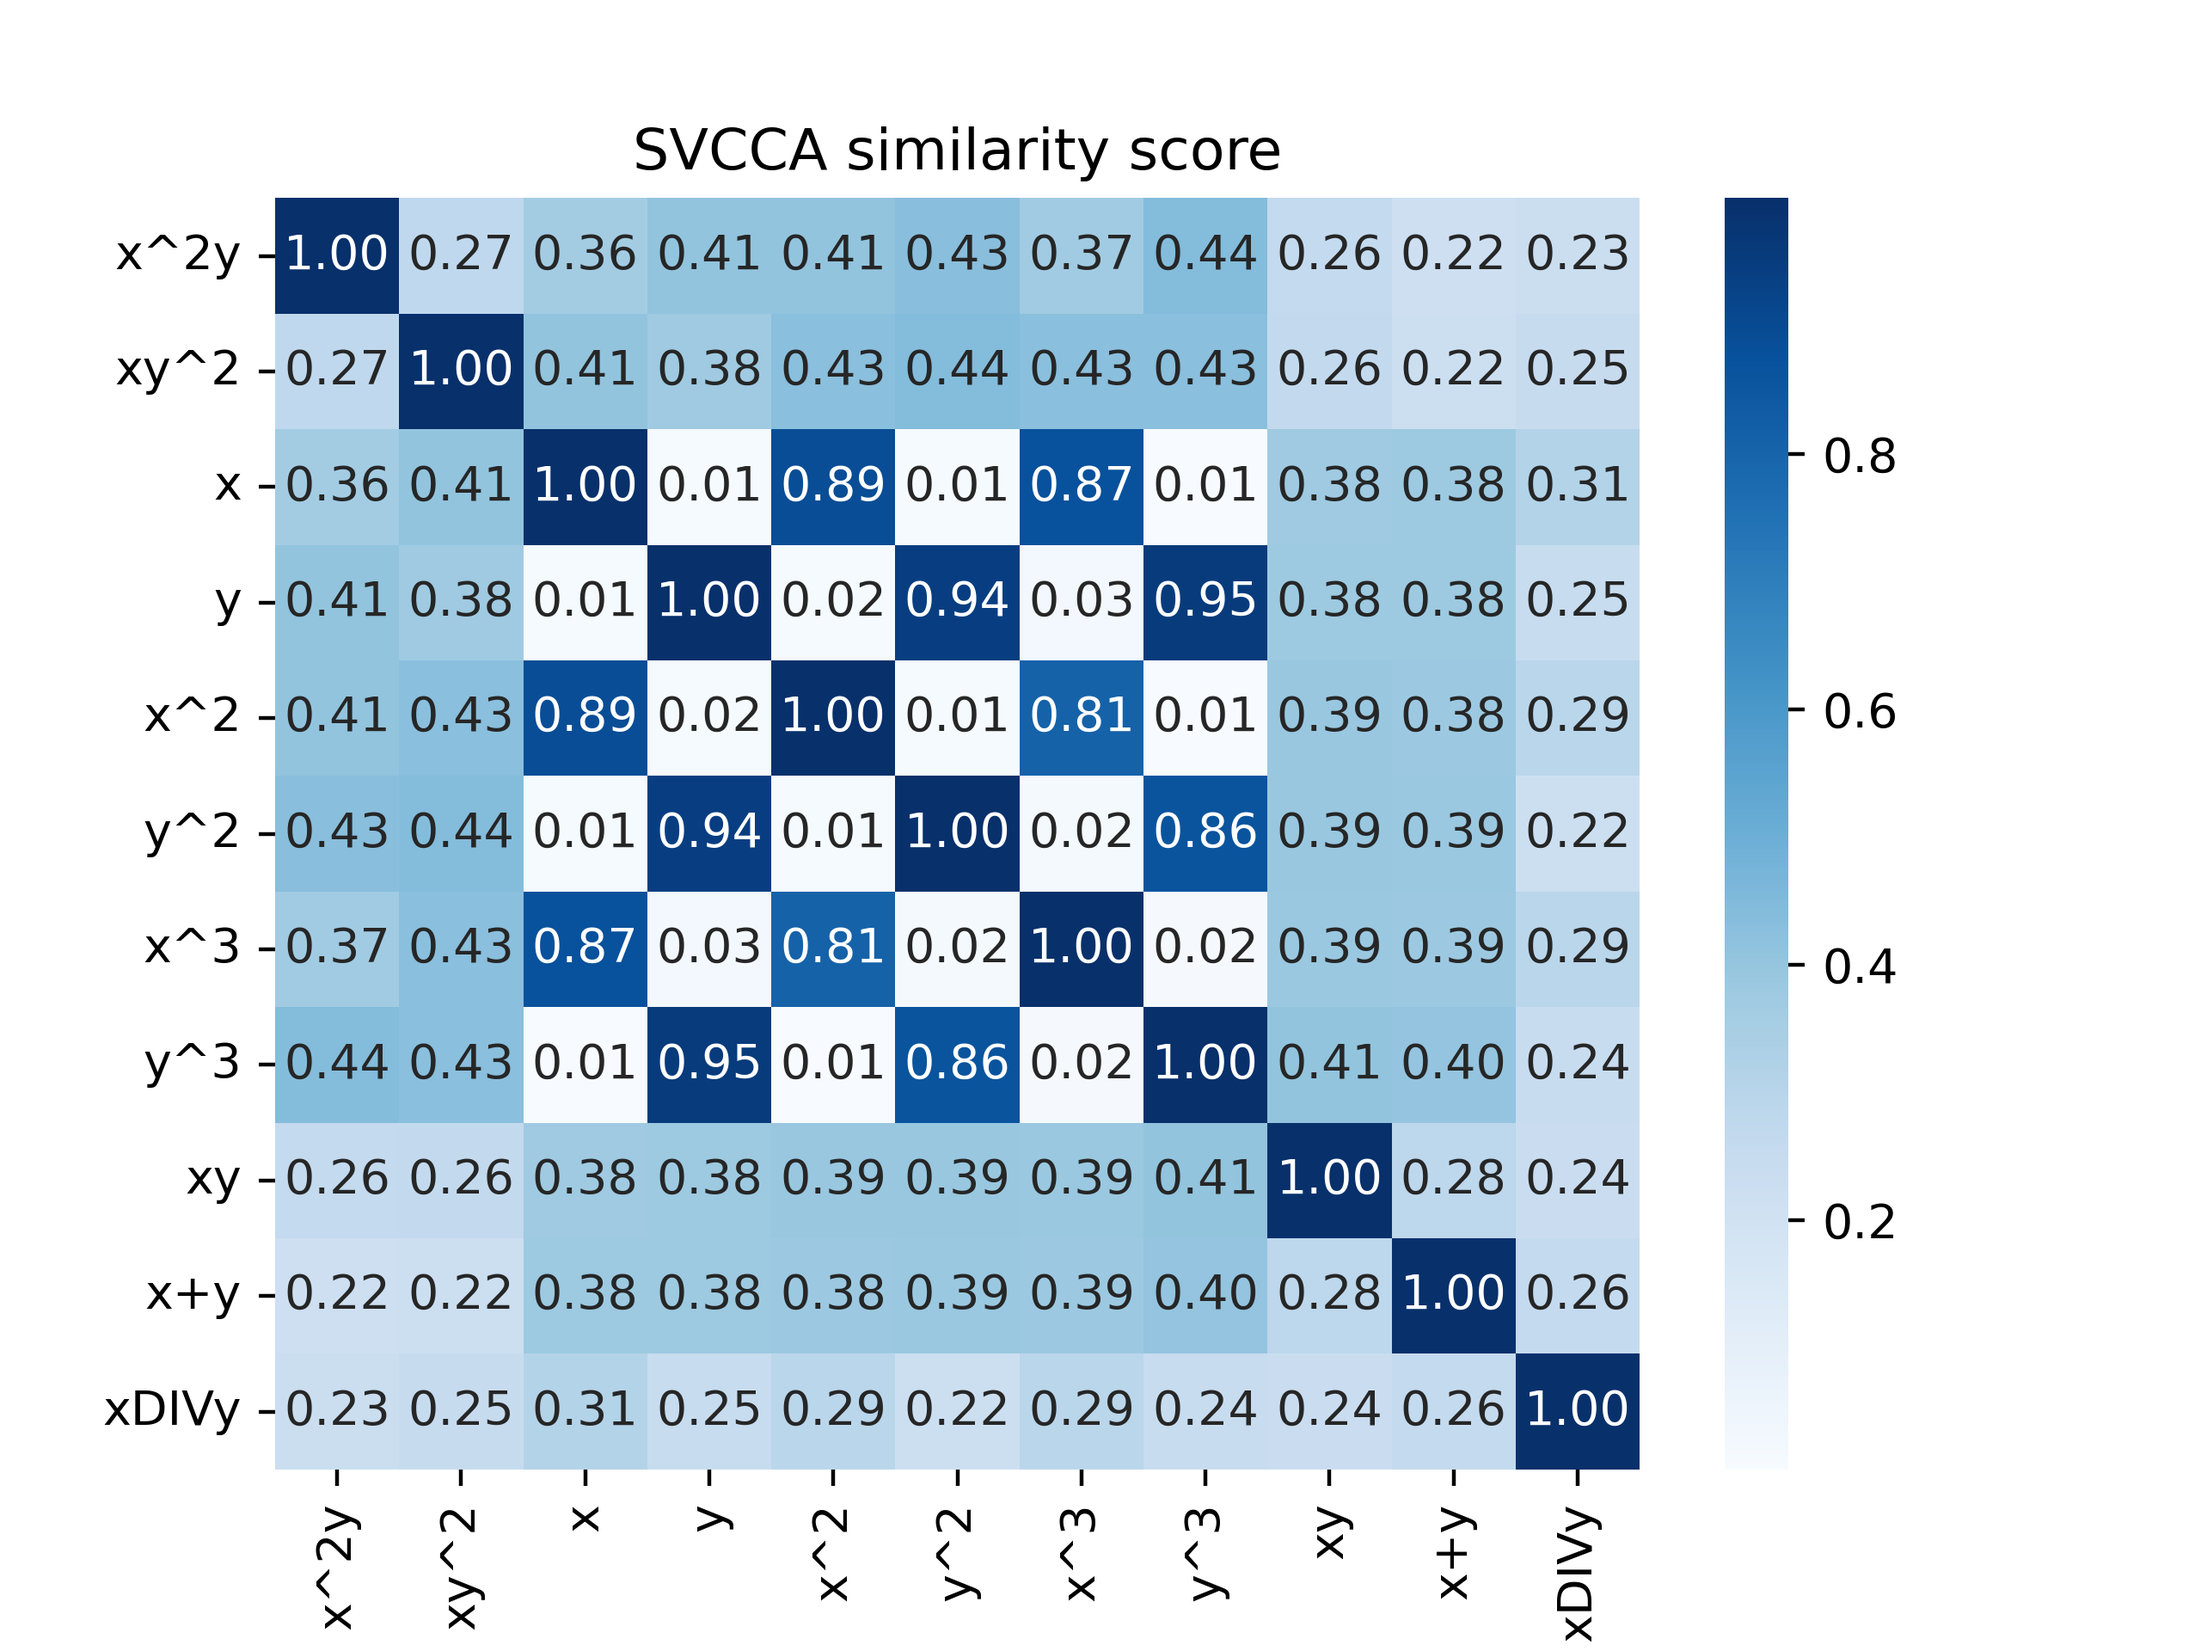
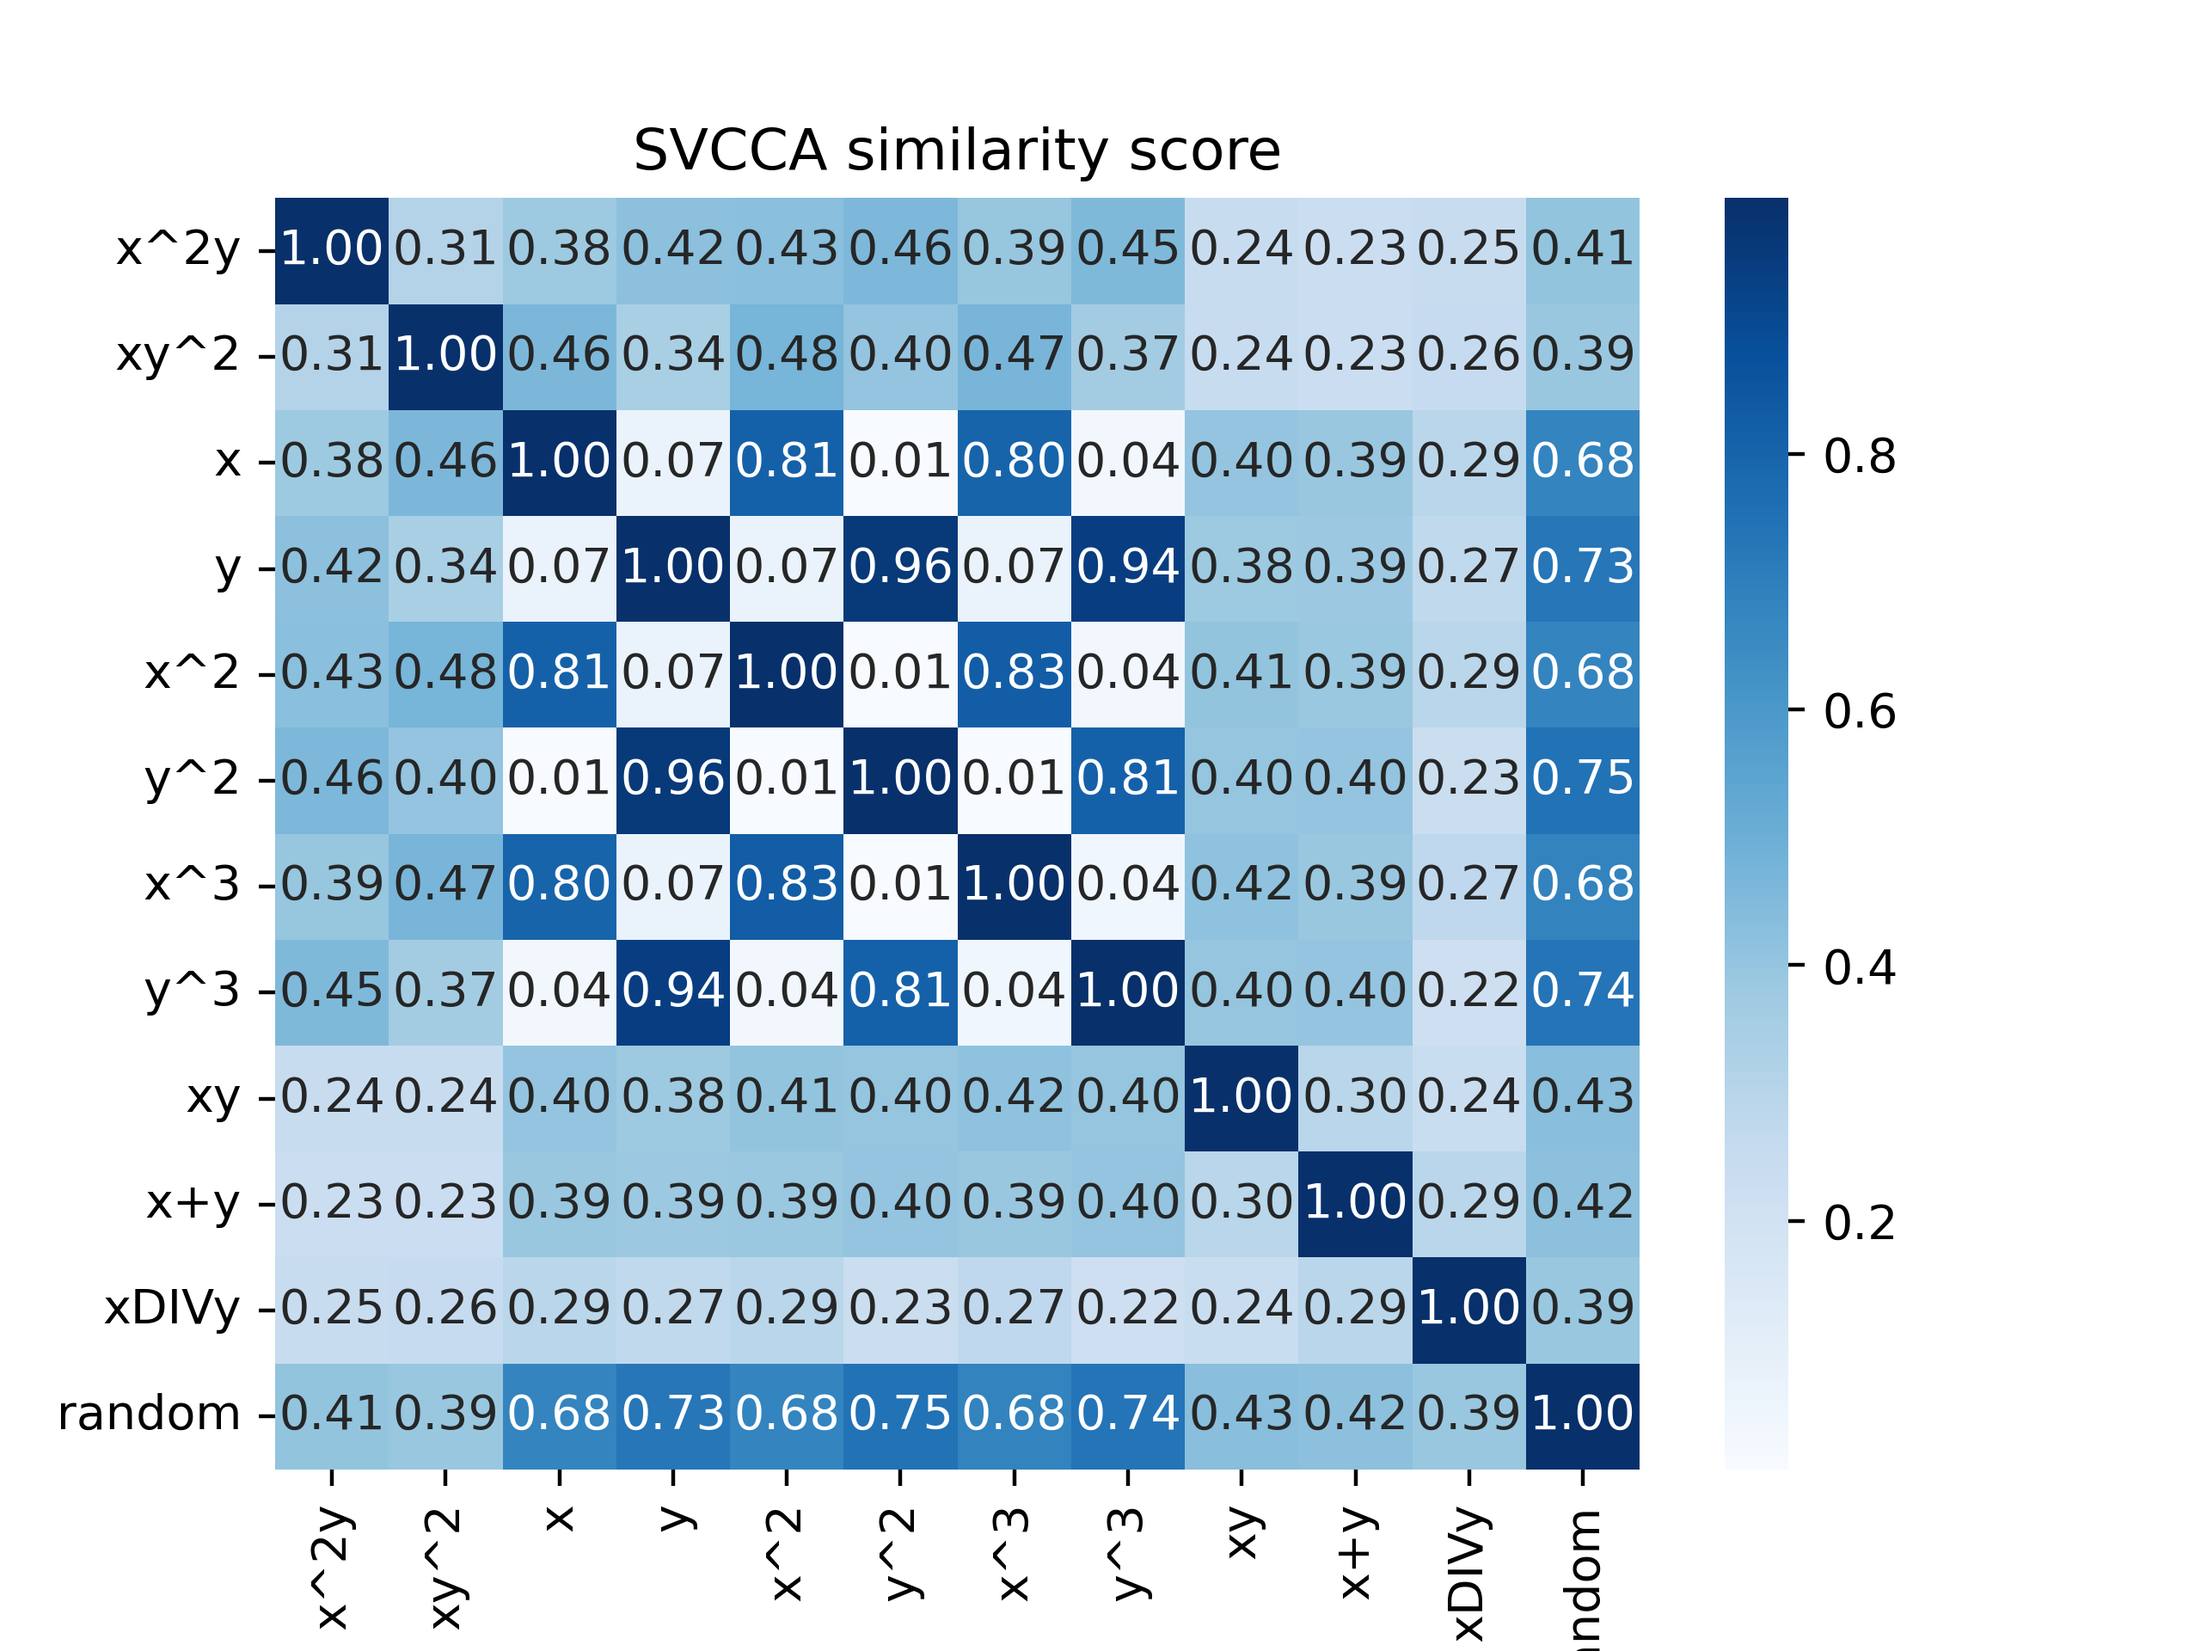
similarity

Changed region(s): [[0.0312, 0.0938, 0.75, 1.0]]

diff --git a/train.py b/train.py
@@ -4,6 +4,9 @@ from itertools import permutations
 
 import operations
 
+from svcca.cca_core import get_cca_similarity
+from similarity import svd_reduction
+
 from sklearn import linear_model
 from sklearn.metrics import r2_score
 
@@ -43,7 +46,6 @@ def main(args):
     for key, value in ops.items():
         score[key]=[]
         representations[key]=torch.load(f'representations/{key}/final.pt')
-
     if not os.path.exists(f'weights/{args.operation}'):
         os.makedirs(f'weights/{args.operation}')
     if not os.path.exists(f'figures/{args.operation}'):
@@ -132,6 +134,7 @@ def main(args):
                 #print("Test ", total_acc)
                 val_acc.append(total_acc / valid_data.shape[-1])
                 val_loss.append(total_loss / valid_data.shape[-1])
+
                 with torch.no_grad():
                     for key, value in ops.items():
                         lm = linear_model.LinearRegression()
@@ -139,8 +142,10 @@ def main(args):
                         y=model.extract_representation(alldata.to(device)[:-1])[-1].cpu().numpy()
                         x=svd_reduction(x).T
                         y=svd_reduction(y).T
-                        lm.fit(x, y)
-                        score[key].append(r2_score(lm.predict(x), y, multioutput='variance_weighted'))
+                        svcca_results = get_cca_similarity(x, y, epsilon=1e-10, verbose=False)
+                        score[key].append(svcca_results['cca_coef1'].mean())
+                        #lm.fit(x, y)
+                        #score[key].append(r2_score(lm.predict(x), y, multioutput='variance_weighted'))
 
         if (e + 1) % 100 == 0:
             steps = torch.arange(len(train_acc)).numpy() * steps_per_epoch
@@ -151,7 +156,7 @@ def main(args):
             plt.xlabel("Optimization Steps")
             plt.ylabel("Accuracy")
             plt.xscale("log", base=10)
-            plt.savefig(f'figures/{args.operation}/acc.png', dpi=150)
+            plt.savefig(f'figures/{args.operation}/acc2.png', dpi=150)
             plt.close()
 
             plt.plot(steps, train_loss, label="train")
@@ -161,39 +166,40 @@ def main(args):
             plt.xlabel("Optimization Steps")
             plt.ylabel("Loss")
             plt.xscale("log", base=10)
-            plt.savefig(f'figures/{args.operation}/loss.png', dpi=150)
+            plt.savefig(f'figures/{args.operation}/loss2.png', dpi=150)
             plt.close()
-
+            
             plt.figure()
             for key, value in ops.items():
                 plt.plot(steps, score[key], label=key)
             plt.legend()
-            plt.title(f'R2 score')
+            plt.title(f'SVCCA score')
             plt.xlabel("Optimization Steps")
-            plt.ylabel("R2")
+            plt.ylabel("score")
             plt.xscale("log", base=10)
-            plt.savefig(f'figures/{args.operation}/r2.png', dpi=150)
+            plt.savefig(f'figures/{args.operation}/cca_score.png', dpi=150)
             plt.close()
+            
 
 
 
 
         if (e+1)*steps_per_epoch > 10**exp:
-            torch.save(model.state_dict(), f'weights/{args.operation}/weights{10**exp}.pt')
+            torch.save(model.state_dict(), f'weights/{args.operation}/weights{10**exp}2.pt')
             exp+=1
-    torch.save(model.state_dict(), f'weights/{args.operation}/final.pt')
+    torch.save(model.state_dict(), f'weights/{args.operation}/final2.pt')
 
 
 if __name__ == "__main__":
     parser = ArgumentParser()
     parser.add_argument("--p", type=int, default=97)
-    parser.add_argument("--budget", type=int, default=3e5)
+    parser.add_argument("--budget", type=int, default=5e5)
     parser.add_argument("--batch_size", type=int, default=512)
     parser.add_argument("--lr", type=float, default=1e-3)
     parser.add_argument("--beta1", type=float, default=0.9)
     parser.add_argument("--beta2", type=float, default=0.98)
     parser.add_argument("--weight_decay", type=float, default=0)
     parser.add_argument("--optimizer", default="Adam")
-    parser.add_argument("--operation", default="mul")
+    parser.add_argument("--operation", default="xy")
     args = parser.parse_args()
     main(args)

diff --git a/store_representations.py b/store_representations.py
@@ -4,6 +4,8 @@ import torch
 from operations import monomial, composite, other
 from train import generate_data
 import os
+#from svcca.cca_core import get_cca_similarity
+#from similarity import svd_reduction
 
 def main(args):
     torch.set_printoptions(threshold=10_000)
@@ -12,8 +14,8 @@ def main(args):
         device = torch.device("cuda" if torch.cuda.is_available() else "cpu")
 
         for key, value in {**other, **monomial, **composite}.items():
-            if not os.path.exists(f'representationsNew/{key}'):
-                os.makedirs(f'representationsNew/{key}')
+            if not os.path.exists(f'representations/{key}'):
+                os.makedirs(f'representations/{key}')
             print("operation: ", key)
             eq_token = args.p
             op_token = args.p + 1
@@ -21,27 +23,34 @@ def main(args):
             model = Decoder(
                         dim=128, num_layers=2, num_heads=4, num_tokens=args.p + 2, seq_len=5
                     ).to(device)
-            model.load_state_dict(torch.load(f'weightsNew/{key}/final.pt'))
+            model.load_state_dict(torch.load(f'weights/{key}/final.pt'))
             repr=model.extract_representation(data[:-1])[-1]
             print(repr.shape)
-            torch.save(repr, f'representationsNew/{key}/final.pt')
+            torch.save(repr, f'representations/{key}/final.pt')
             print(torch.argmax(model(data[:-1])[-1], 1).reshape(97,96))
 
-        '''
+'''
         eq_token = args.p
         op_token = args.p + 1
-        data = generate_data(args.p, eq_token, op_token, monomial['x^2']).to(device)
+        data = generate_data(args.p, eq_token, op_token, composite['xy']).to(device)
         model = Decoder(
                     dim=128, num_layers=2, num_heads=4, num_tokens=args.p + 2, seq_len=5
                 ).to(device)
-        #model.load_state_dict(torch.load(f'weights/{key}/final.pt'))
-        repr=model.extract_representation(data[:-1])[-1]
-        print(repr.shape)
-        torch.save(repr, f'representations/x^2/random.pt')
-        print(torch.argmax(model(data[:-1])[-1], 1).reshape(97,96))
-        '''
+        model.load_state_dict(torch.load(f'weights/xy/final.pt'))
+        #print(mo)
+        #x=model.extract_representation(data[:-1])[-1].cpu().numpy()
+        #torch.save(repr, f'representations/xy/new.pt')
+        y=torch.load('representations/xy/final.pt')      
+        #x=y
+        #x=svd_reduction(x).T
+        #y=svd_reduction(y).T
+        #svcca_results = get_cca_similarity(x, y, epsilon=1e-10, verbose=False)
+        #print(svcca_results['cca_coef1'].mean())
+        #print(torch.argmax(model(data[:-1])[-1], 1).reshape(97,96))
+        print(torch.argmax(model.head(y), 1).reshape(97,96))
+        
 
-
+'''
 if __name__ == "__main__":
     parser = ArgumentParser()
     parser.add_argument("--p", type=int, default=97)

diff --git a/similarity.py b/similarity.py
@@ -24,14 +24,14 @@ def svd_reduction(M):
 
 with torch.no_grad():
     operation_names=[]
-    device = torch.device("cuda" if torch.cuda.is_available() else "cpu")
+    #device = torch.device("cuda" if torch.cuda.is_available() else "cpu")
     representations={}
     representationsNew={}
     for key, value in {**other, **monomial, **composite}.items():
         operation_names.append(key)
         representations[key]=torch.load(f'representations/{key}/final.pt').cpu().numpy()
-        if key=='x^2':
-            representationsNew[key]=torch.load(f'representations/{key}/random.pt').cpu().numpy()
+    representations['random']=torch.load('old/representations/x^2/random.pt').cpu().numpy()
+    operation_names.append('random')
     results=np.zeros((len(operation_names), len(operation_names)))
     for i in range(len(operation_names)):
         for j in range(len(operation_names)): 

diff --git a/grok.py b/grok.py
@@ -4,3 +4,5 @@ import subprocess
 for key, value in {**other, **monomial, **composite}.items():
     if key=='xy':
         subprocess.check_output(['python', 'train.py', f'--operation={key}'])
+
+#subprocess.check_output(['python', 'store_representations.py'])
